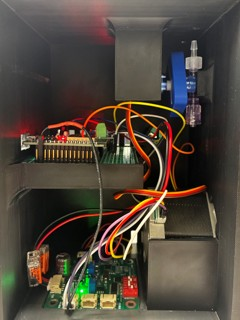
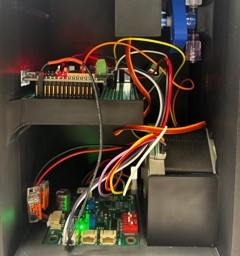
Crop the pump enclosure photograph
20% off the top, which was the empty upper wall of the box above the
board. 320px down to 256px.

diff --git a/index.html b/index.html
@@ -245,7 +245,7 @@
             <figcaption>Cuff module — air pump and solenoid valve off an H-bridge, pressure sensor on the cuff line.</figcaption>
           </figure>
           <figure>
-            <img src="images/bp-pump-enclosure-wiring.jpg?v=22" alt="Inside the pump enclosure: a microcontroller board on a standoff rail above a bank of colour-coded terminal blocks, with looms running down to the components below.">
+            <img src="images/bp-pump-enclosure-wiring.jpg?v=24" alt="Inside the pump enclosure: a microcontroller board on a standoff rail above a bank of colour-coded terminal blocks, with looms running down to the components below.">
             <figcaption>The pump enclosure, wired.</figcaption>
           </figure>
           <figure>
